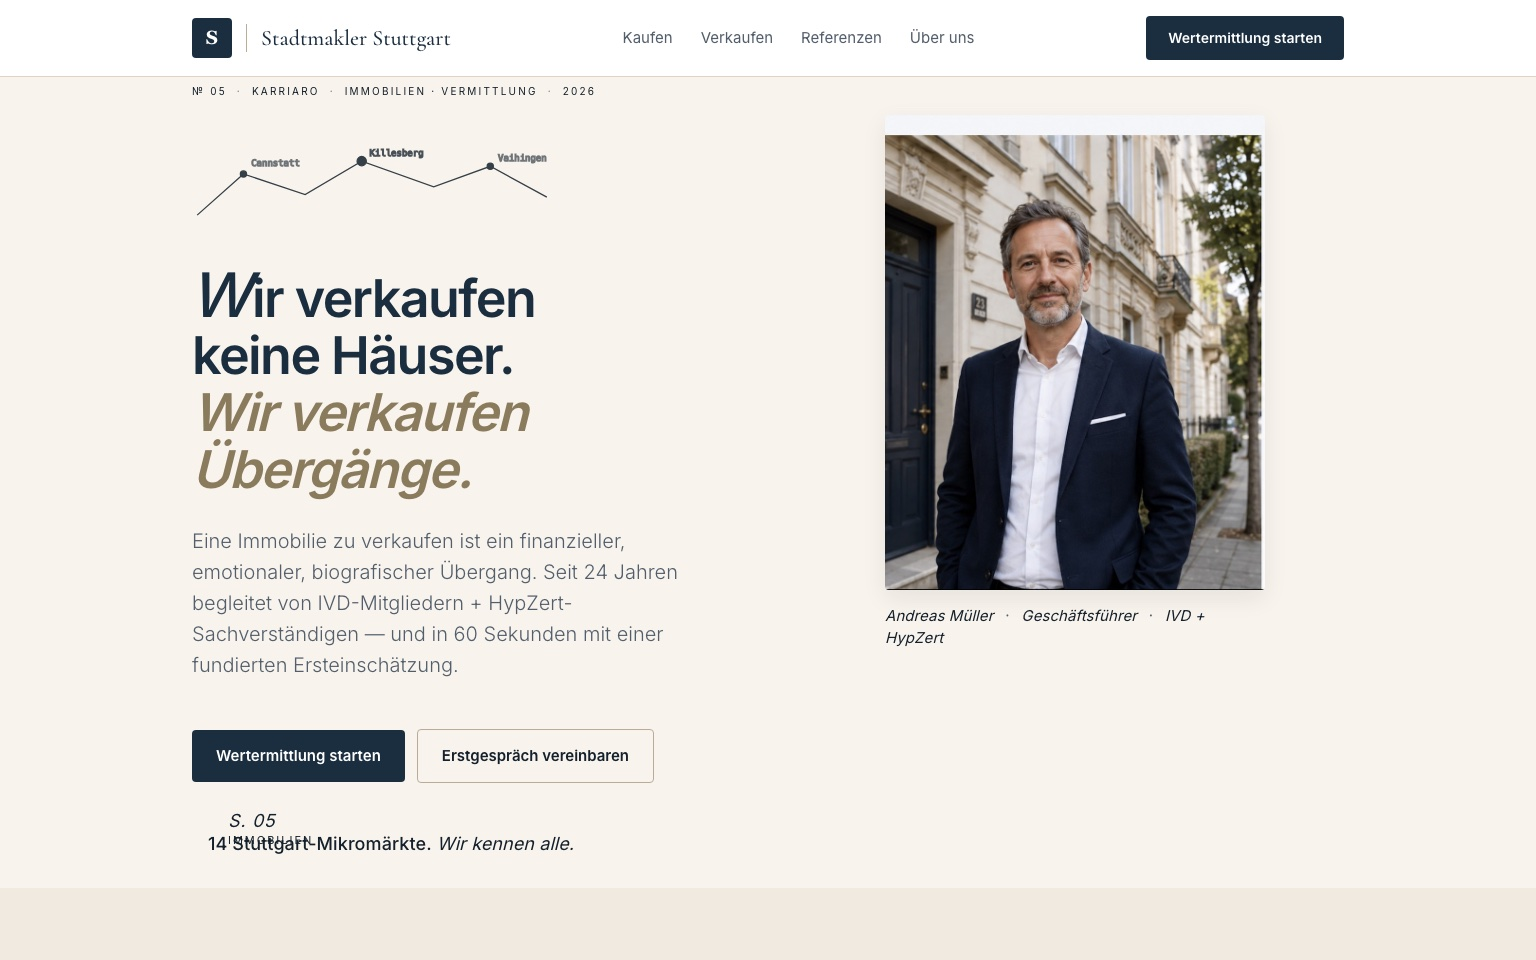
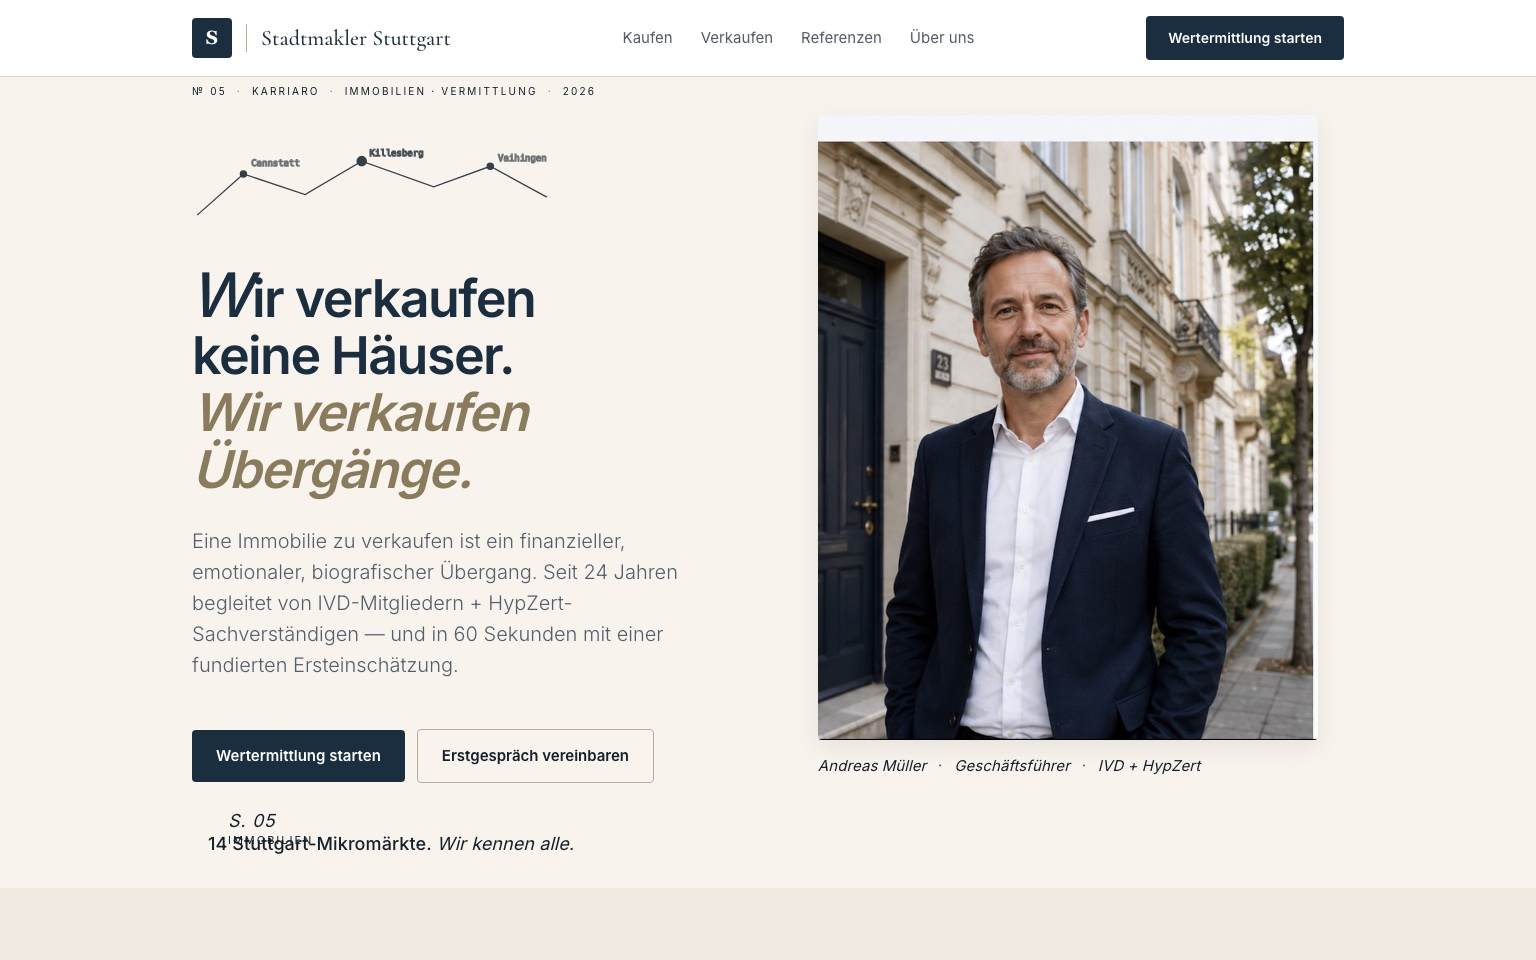
Andreas-Foto im Immo-Hero ~30% groesser
src/portfolio/immobilien-makler.html: Hero-Grid 1.15fr/0.85fr -> 1fr/0.95fr
(57/43 -> 51/49), Bild + Caption max-width 380 -> 500 px.

src/images/immobilien-stadtmakler-mockup.jpg: neu gerendert via
Headless-Chrome 1536x960 + sips JPEG 85 %.

Verifikation: visueller Check des neuen Mockups, npm run smoke 83/83 gruen.

Changed region(s): [[0.5312, 0.125, 0.875, 0.8125]]

diff --git a/src/portfolio/immobilien-makler.html b/src/portfolio/immobilien-makler.html
@@ -162,10 +162,12 @@
         .mobile-toggle svg { width: 24px; height: 24px; }
         .mobile-menu { display: none; }
 
-        .hero { display: grid; grid-template-columns: 1.15fr 0.85fr; gap: clamp(40px, 5vw, 72px); align-items: start; min-height: clamp(440px, 54vh, 580px); padding: 0 24px; max-width: var(--max); margin: 0 auto; background: transparent; }
+        /* Sprint 85 — Andreas-Foto sichtbar groesser (max-width 380->500, Grid 1.15fr/0.85fr -> 1fr/0.95fr). */
+        .hero { display: grid; grid-template-columns: 1fr 0.95fr; gap: clamp(40px, 5vw, 72px); align-items: start; min-height: clamp(440px, 54vh, 580px); padding: 0 24px; max-width: var(--max); margin: 0 auto; background: transparent; }
         .hero-content { padding-top: 0; padding-bottom: 32px; padding-left: 0; padding-right: 0; }
         .hero-portrait { align-self: start; display: flex; flex-direction: column; padding-top: clamp(24px, 4vh, 56px); }
-        .hero-portrait img { width: 100%; max-width: 380px; aspect-ratio: 4/5; height: auto; object-fit: cover; object-position: center top; display: block; border: 1px solid var(--color-gold); border-radius: 4px; box-shadow: 0 8px 24px rgba(20,20,20,0.08); }
+        .hero-portrait img { width: 100%; max-width: 500px; aspect-ratio: 4/5; height: auto; object-fit: cover; object-position: center top; display: block; border: 1px solid var(--color-gold); border-radius: 4px; box-shadow: 0 8px 24px rgba(20,20,20,0.08); }
+        .hero-portrait .hero-portrait-caption { max-width: 500px; }
         @media (max-width: 920px) {
             .hero { grid-template-columns: 1fr; min-height: auto; }
             .hero-content { padding: 48px 0 32px; }
